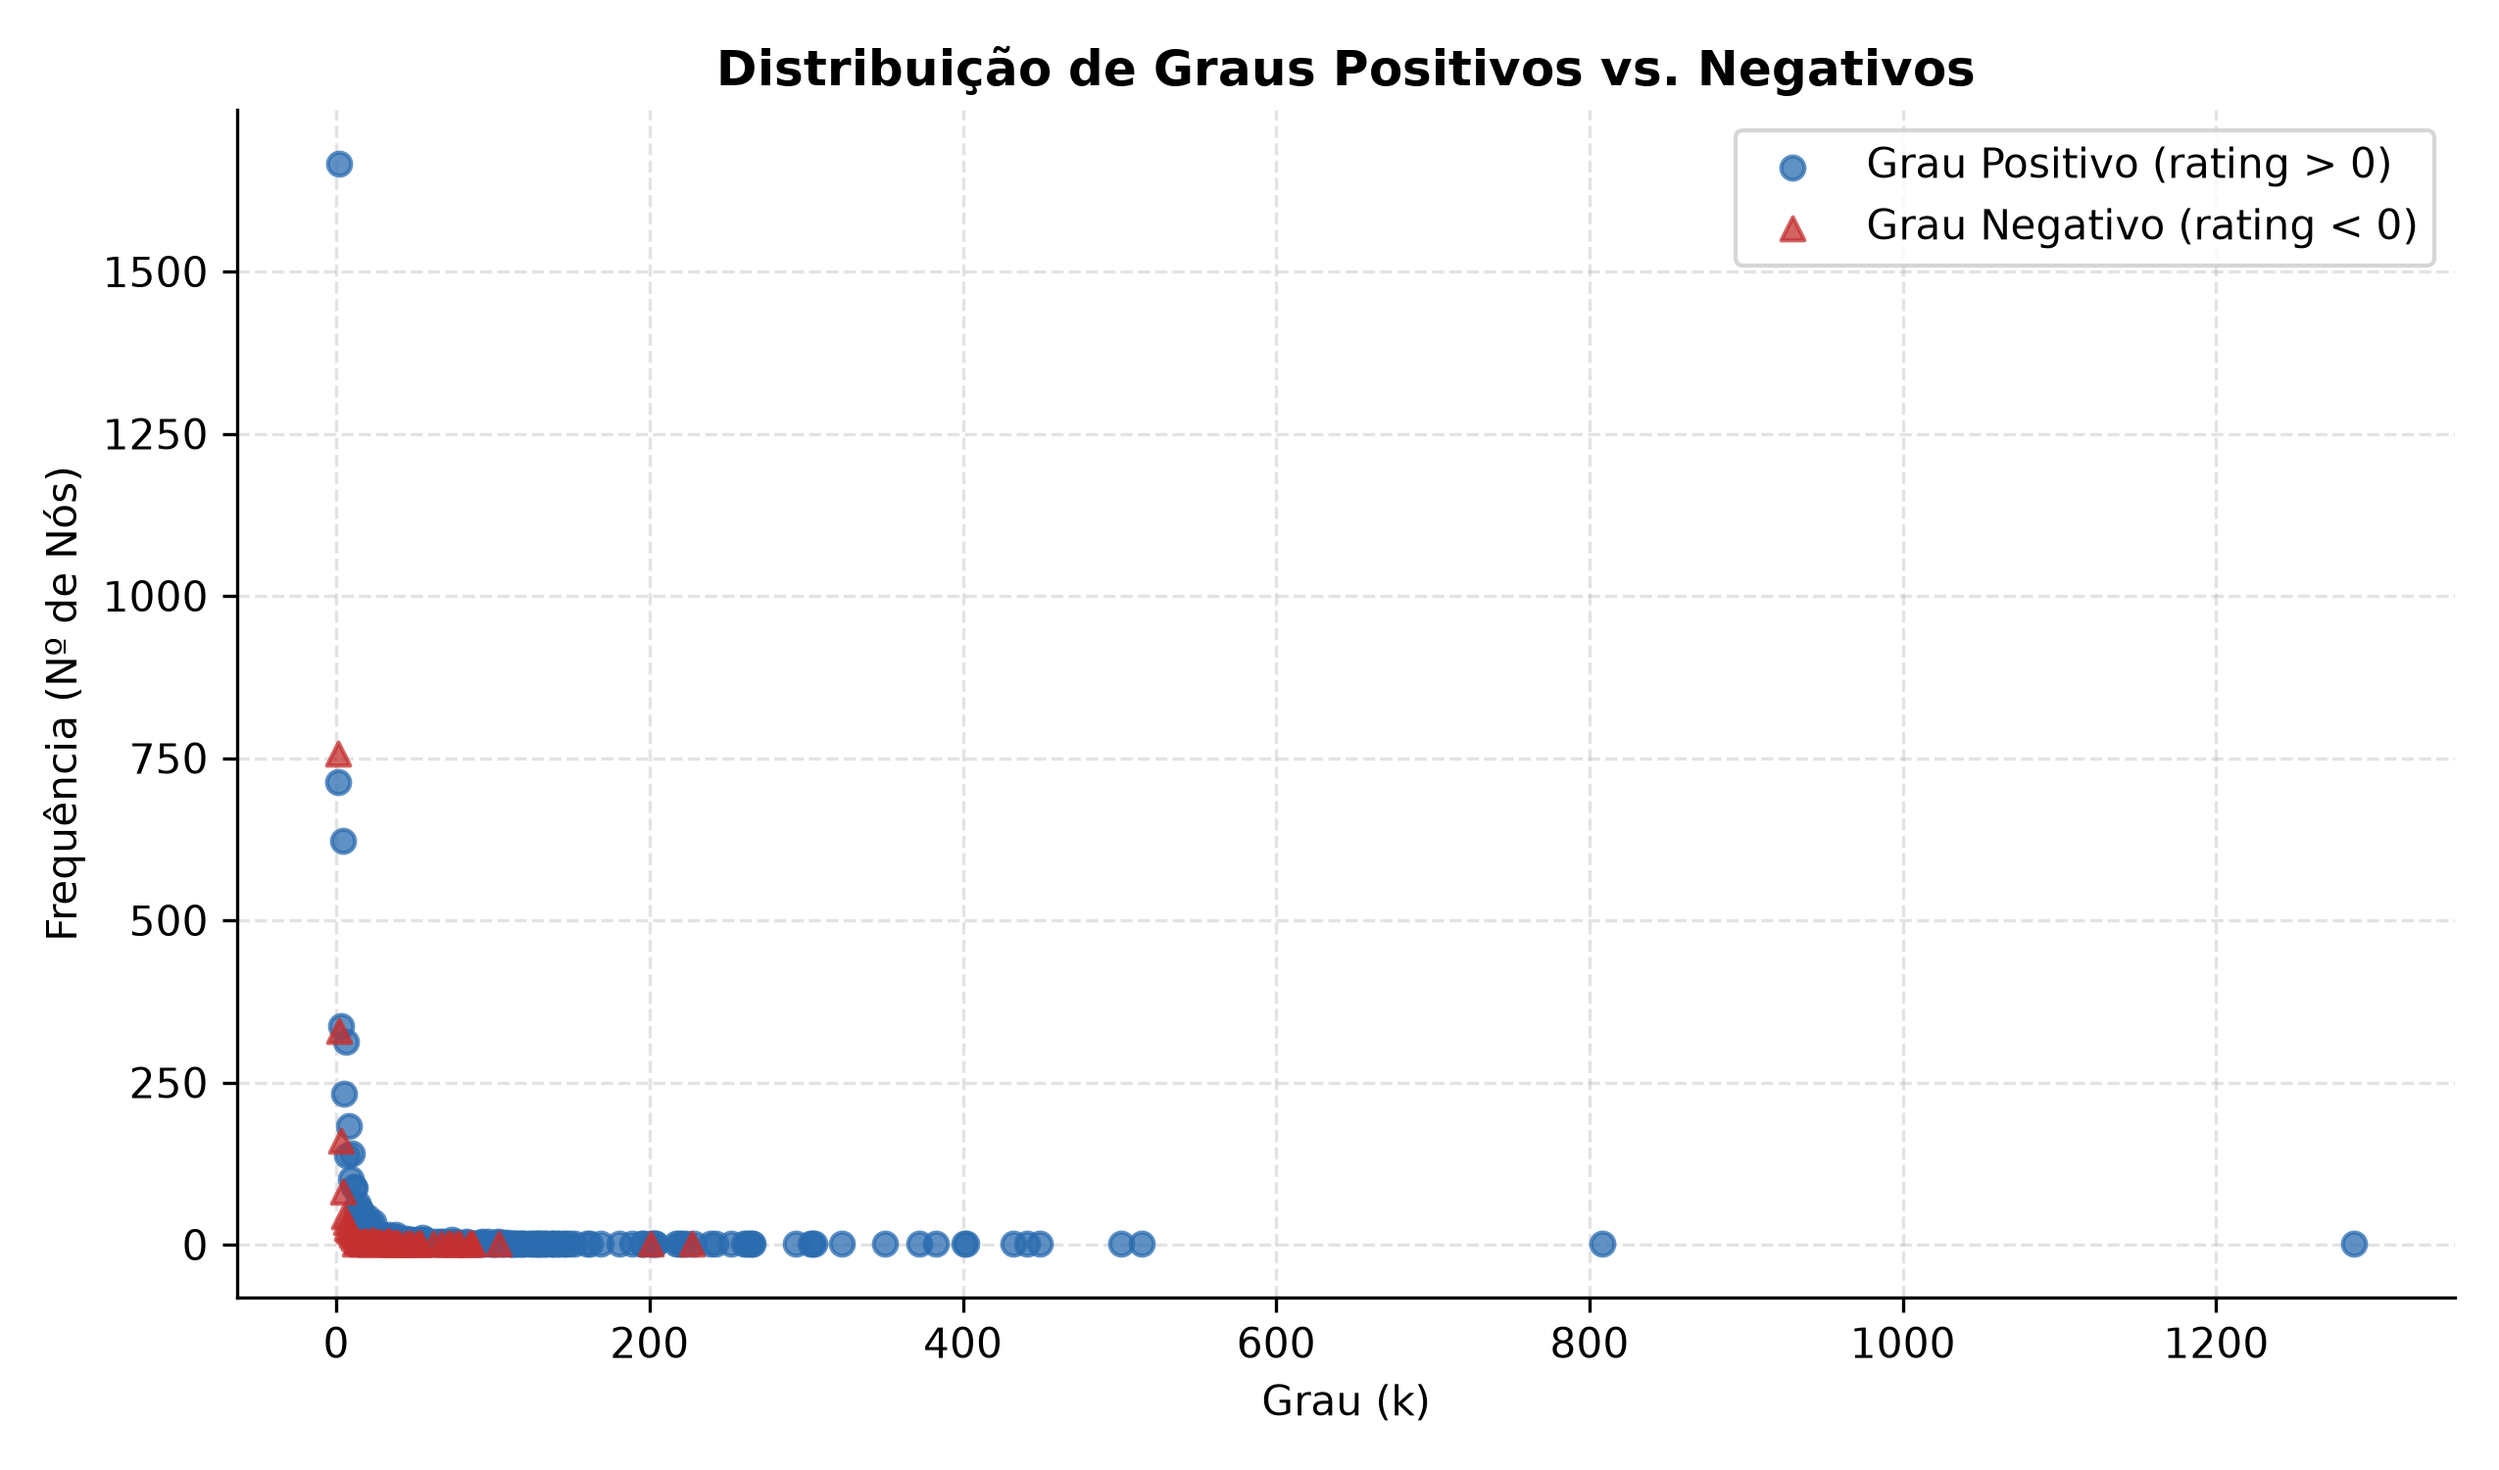
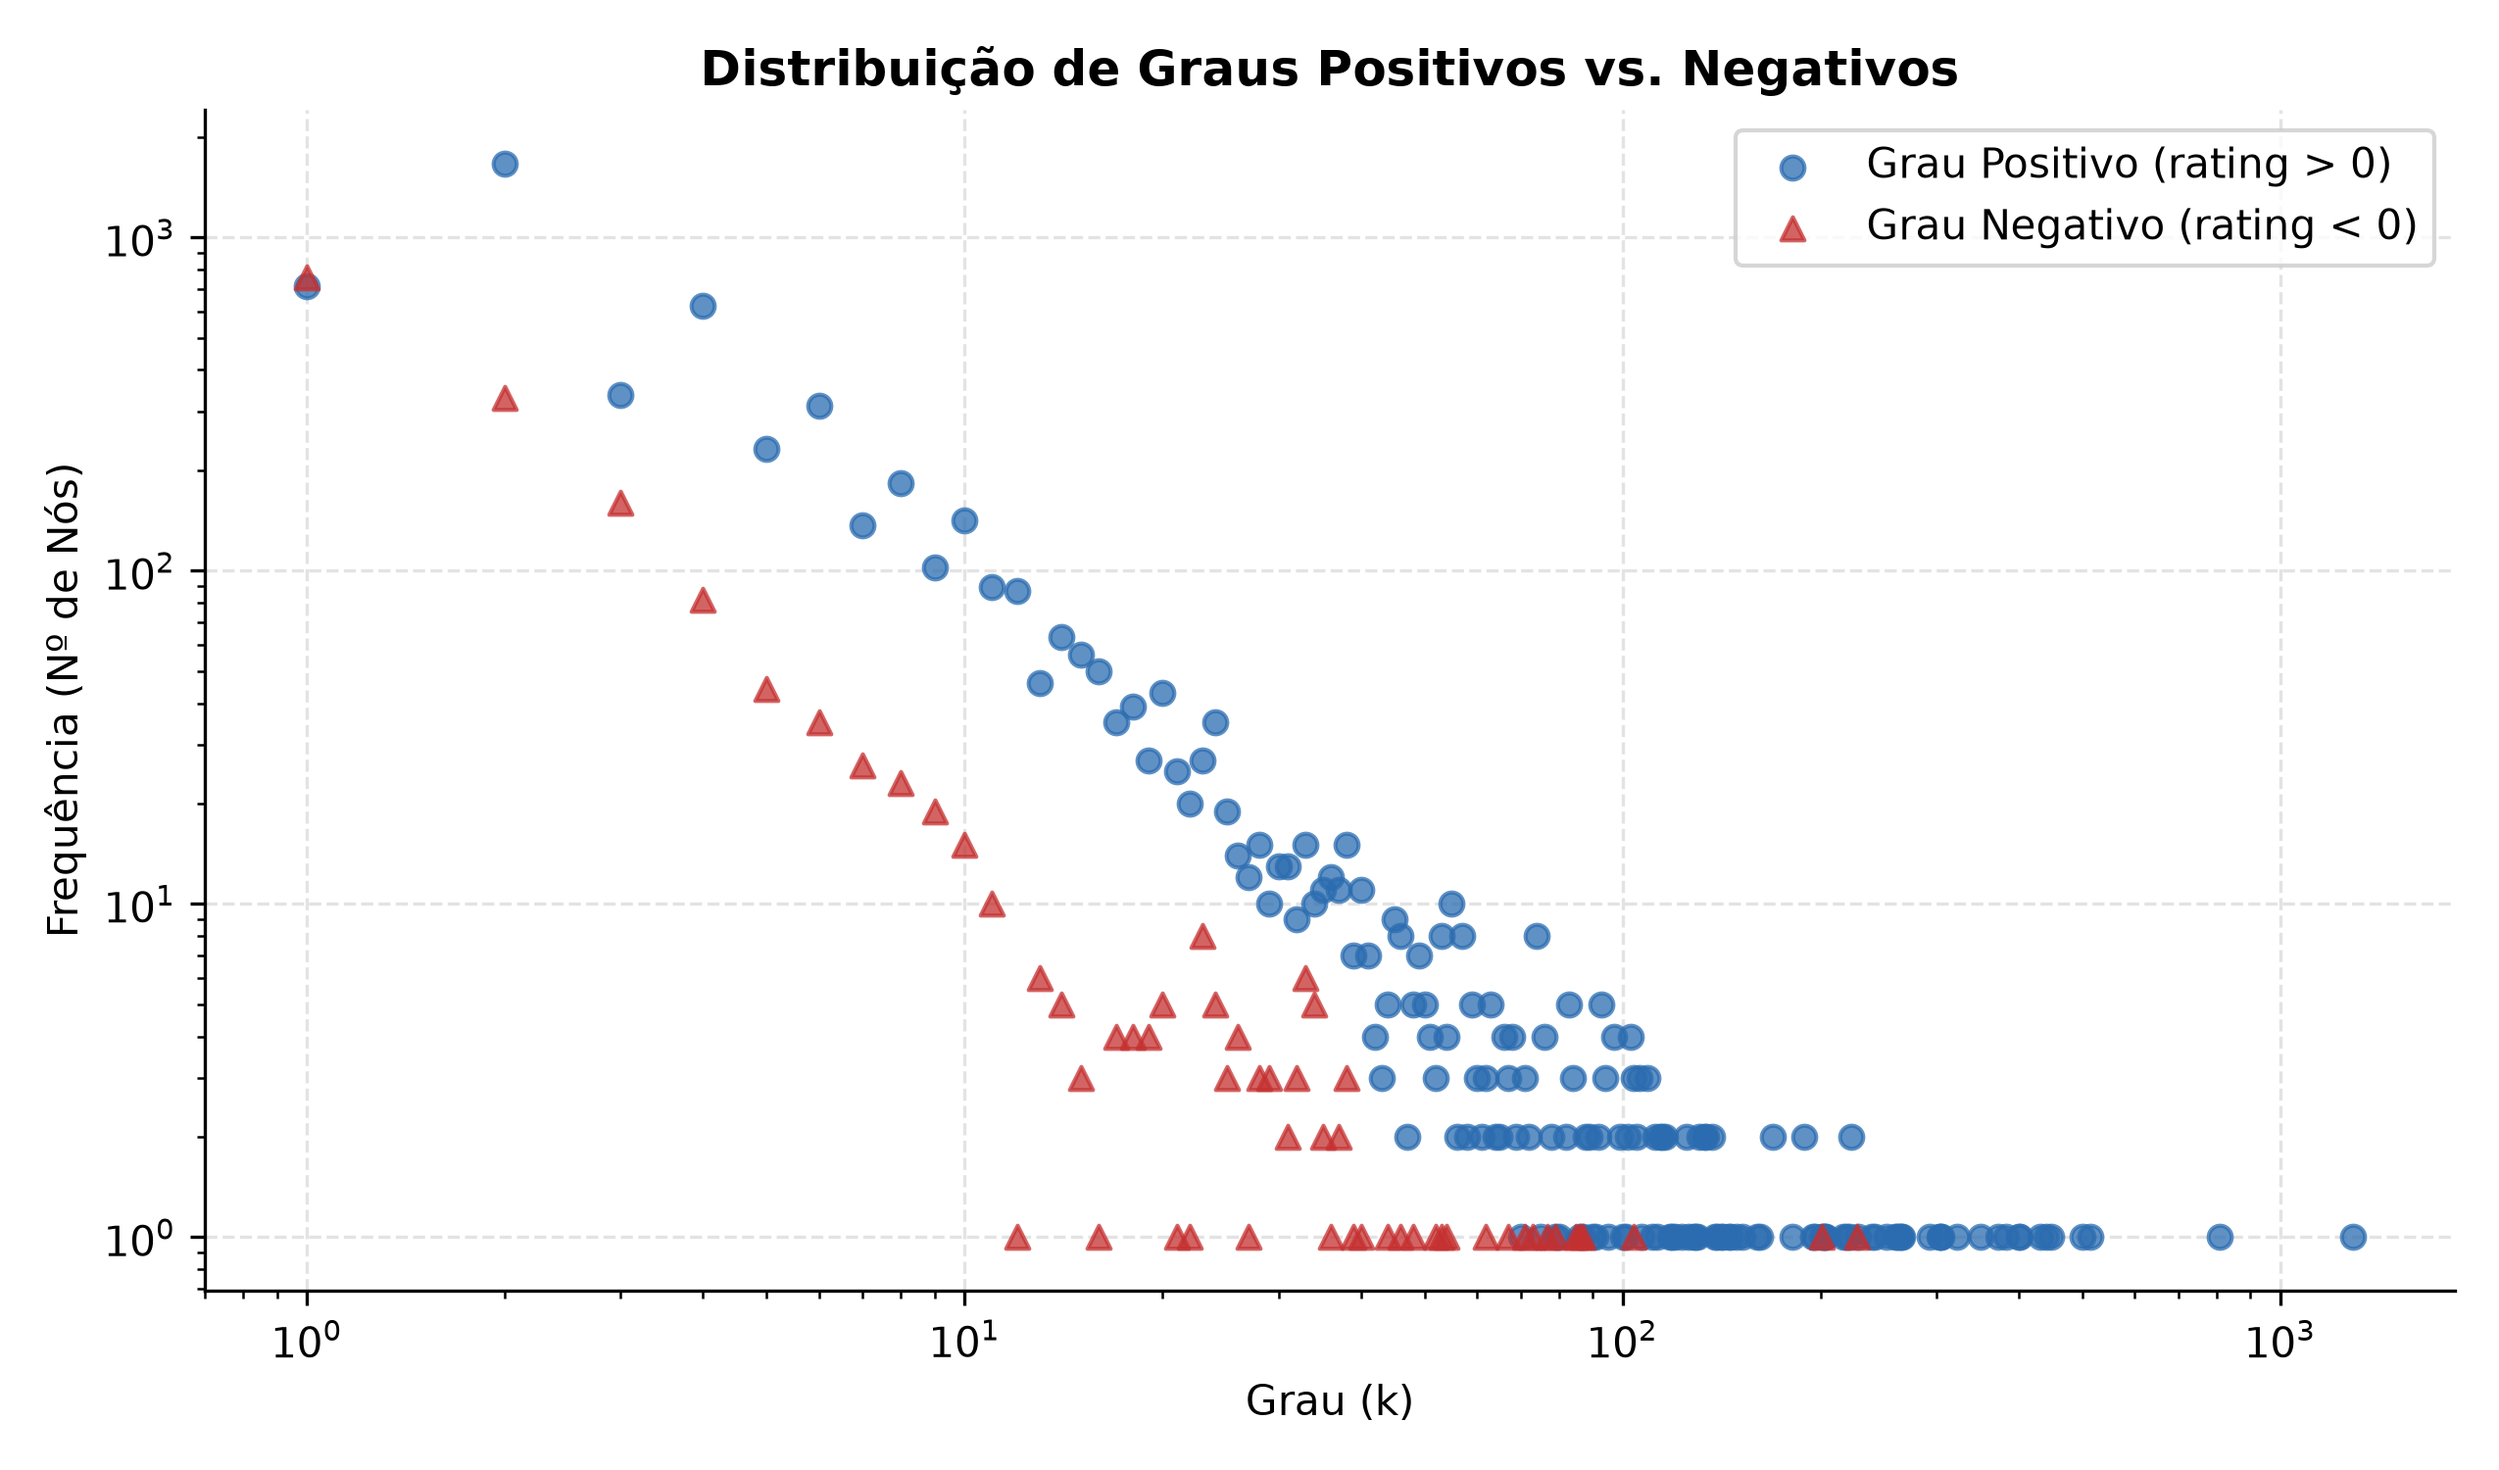
"ajustes finais"

diff --git a/src/graficos_relatorio.py b/src/graficos_relatorio.py
@@ -1,6 +1,6 @@
 """Gera os 7 gráficos da Parte 2 (rede com pesos negativos) usando apenas matplotlib, pandas, numpy e networkx."""
 
-import time
+import json
 from pathlib import Path
 
 import matplotlib
@@ -124,6 +124,7 @@ def _plot_01_distribuicao_ratings(df, pasta_out):
 
 
 def _plot_02_distribuicao_graus_loglog(nos, pasta_out):
+    # [IA] Claude Code – eixos x e y em escala log (gráfico log-log)
     pos_counts = nos.loc[nos["grau_positivo"] > 0, "grau_positivo"].value_counts().sort_index()
     neg_counts = nos.loc[nos["grau_negativo"] > 0, "grau_negativo"].value_counts().sort_index()
 
@@ -146,6 +147,8 @@ def _plot_02_distribuicao_graus_loglog(nos, pasta_out):
         label="Grau Negativo (rating < 0)",
     )
 
+    ax.set_xscale("log")
+    ax.set_yscale("log")
     ax.set_title("Distribuição de Graus Positivos vs. Negativos", fontweight="bold")
     ax.set_xlabel("Grau (k)")
     ax.set_ylabel("Frequência (Nº de Nós)")
@@ -289,55 +292,33 @@ def _plot_06_top_emissores_vs_volume(nos, pasta_out, top_n=15):
     return saida
 
 
-def _plot_07_comparacao_algoritmos_parte2(df, pasta_out, tamanhos=(50, 100, 200, 300, 400)):
-    graus = pd.concat([df["origem"], df["destino"]]).value_counts()
-    total_nos = len(graus)
-    tamanhos_validos = [n for n in tamanhos if n <= total_nos]
-    if not tamanhos_validos:
-        tamanhos_validos = [total_nos]
+def _plot_07_comparacao_algoritmos_parte2(pasta_out, caminho_report=Path("out/parte2/parte2_report.json")):
+    # [IA] Claude Code – plota tempos dos algoritmos do grupo lidos do parte2_report.json
+    with open(caminho_report, encoding="utf-8") as f:
+        report = json.load(f)
+    execucoes = sorted(report["escalabilidade_5_execucoes"], key=lambda e: e["fracao_nos"])
 
-    tempos_bfs, tempos_dij, tempos_bf = [], [], []
-    qtd_nos_real = []
+    rotulos_x = [f"{e['fracao_nos']:.0%}\n(|V| = {e['ordem_V']})" for e in execucoes]
+    x = np.arange(len(execucoes))
 
-    for n in tamanhos_validos:
-        top_nos = set(graus.head(n).index)
-        df_sub = df[df["origem"].isin(top_nos) & df["destino"].isin(top_nos)]
-
-        G = nx.DiGraph()
-        for o, d, w in df_sub.itertuples(index=False):
-            G.add_edge(o, d, weight=float(w))
-
-        origem = max(G.degree, key=lambda item: item[1])[0]
-        qtd_nos_real.append(G.number_of_nodes())
-
-        # BFS (ignora pesos)
-        t0 = time.perf_counter()
-        nx.single_source_shortest_path_length(G, origem)
-        tempos_bfs.append((time.perf_counter() - t0) * 1000.0)
-
-        # Dijkstra (somente arestas positivas)
-        G_pos = nx.DiGraph([(u, v, d) for u, v, d in G.edges(data=True) if d["weight"] >= 0])
-        t0 = time.perf_counter()
-        if origem in G_pos:
-            nx.single_source_dijkstra_path_length(G_pos, origem, weight="weight")
-        tempos_dij.append((time.perf_counter() - t0) * 1000.0)
-
-        # Bellman-Ford (suporta pesos negativos e detecta ciclos negativos)
-        t0 = time.perf_counter()
-        try:
-            nx.single_source_bellman_ford_path_length(G, origem, weight="weight")
-        except nx.NetworkXUnbounded:
-            pass
-        tempos_bf.append((time.perf_counter() - t0) * 1000.0)
+    series = [
+        ("BFS", "BFS — O(V + E)", "o", "#2b6cb0"),
+        ("DFS", "DFS — O(V + E)", "D", "#805ad5"),
+        ("Dijkstra", "Dijkstra — O((V + E) log V)", "s", "#2f855a"),
+        ("Bellman_Ford", "Bellman-Ford — O(V · E)", "^", "#c53030"),
+    ]
 
     fig, ax = plt.subplots(figsize=(9, 5.2))
-    ax.plot(qtd_nos_real, tempos_bfs, marker="o", linewidth=2.2, color="#2b6cb0", label="BFS — O(V + E)")
-    ax.plot(qtd_nos_real, tempos_dij, marker="s", linewidth=2.2, color="#2f855a", label="Dijkstra (só positivos) — O((V + E) log V)")
-    ax.plot(qtd_nos_real, tempos_bf, marker="^", linewidth=2.2, color="#c53030", label="Bellman-Ford (com negativos) — O(V · E)")
+    for chave, rotulo, marcador, cor in series:
+        tempos_ms = [e["tempo_medio_s"][chave] * 1000.0 for e in execucoes]
+        ax.plot(x, tempos_ms, marker=marcador, linewidth=2.2, color=cor, label=rotulo)
 
-    ax.set_title("Escalabilidade dos Algoritmos de Caminho Mínimo — Parte 2", fontweight="bold")
-    ax.set_xlabel("Tamanho do Subgrafo (Nº de Nós)")
-    ax.set_ylabel("Tempo de Execução (ms)")
+    ax.set_yscale("log")
+    ax.set_xticks(x)
+    ax.set_xticklabels(rotulos_x)
+    ax.set_title("Escalabilidade dos Algoritmos do Grupo — Parte 2", fontweight="bold")
+    ax.set_xlabel("Tamanho do subgrafo (fração dos nós do Bitcoin OTC)")
+    ax.set_ylabel("Tempo médio de 5 execuções (ms, escala log)")
     ax.legend()
     _estilizar_eixo(ax)
     plt.tight_layout()
@@ -367,5 +348,5 @@ def gerar_graficos_relatorio(pasta_saida, caminho_dataset=None, repeticoes=3):
         _plot_04_boxplot_outliers_emissao(nos, pasta_out),
         _plot_05_curva_lorenz_gini(nos, pasta_out),
         _plot_06_top_emissores_vs_volume(nos, pasta_out),
-        _plot_07_comparacao_algoritmos_parte2(df, pasta_out),
+        _plot_07_comparacao_algoritmos_parte2(pasta_out),
     ]
